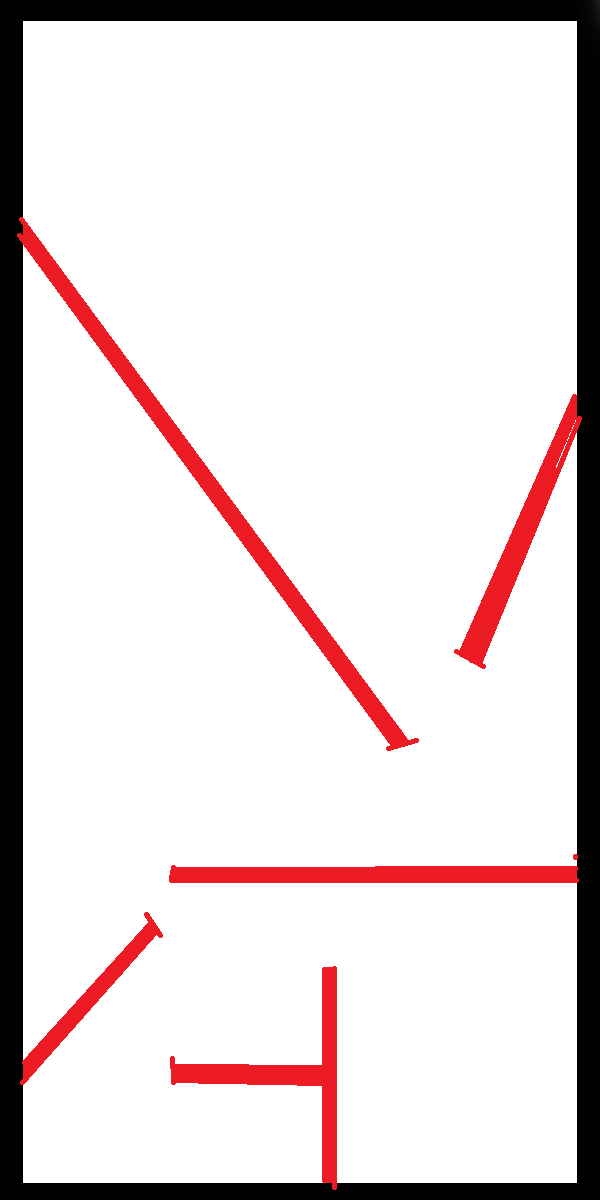
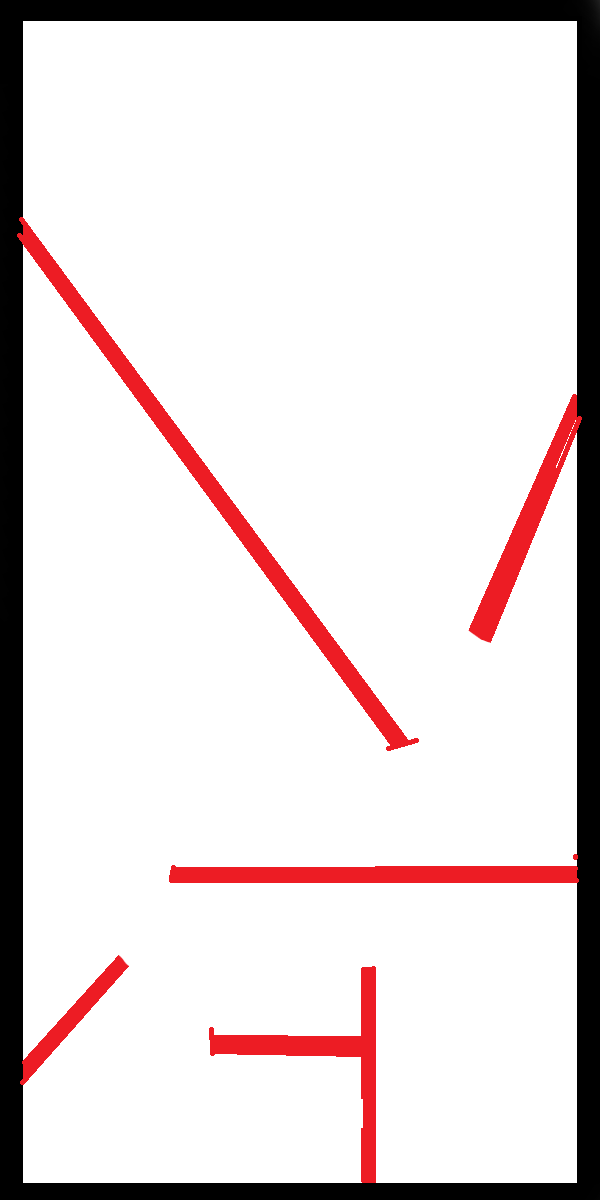
Adjust maps so that car can solve them (car is wider than some of the gaps were)

Changed region(s): [[0.27, 0.8017, 0.63, 0.9867], [0.21, 0.74, 0.27, 0.8017], [0.75, 0.5242, 0.81, 0.555]]

diff --git a/carsim.py b/carsim.py
@@ -61,8 +61,9 @@ class Car:
         self.sensors = (self.front_sensor, self.back_right, self.back_left, self.front_right, self.front_left,
                         self.left_sensor, self.right_sensor)
         self.prefer_left = True
-        self.reverse_count = 0
-        self.steer_count = 0
+        self.reverse_count = 0  # Used to time how long to reverse for
+        self.steer_count = 0  # Used to time how long to steer in the same direction for
+        self.following_line = False
 
     def to_world(self, p):
         """Takes a point relative to the centre of the car (in driving direction) and calculates the world coordinates,
@@ -86,11 +87,12 @@ class Car:
 def _move_car(map, car):
     """Execute car move based on current world state."""
     if car.reverse_count:  # More reversing to do - go straight back
-        if not all([map.is_clear(car.to_world(s)) for s in (car.back_right, car.back_left)]):  # Obstacle behind - stop reversing
+        if not all([map.is_clear(car.to_world(s)) for s in (car.back_right, car.back_left)]):
+            # Obstacle behind - stop reversing
             car.reverse_count = 0
             return
-        car.move(False, 0)
-        car.reverse_count -= 1;
+        car.move(False, -1 if car.prefer_left else 1)
+        car.reverse_count -= 1
         return
     fs = car.to_world(car.front_sensor)
     frs = car.to_world(car.front_right)
@@ -104,8 +106,14 @@ def _move_car(map, car):
             car.prefer_left = True
         elif any([map.is_wall(x) for x in [fs, frs, fls]]):  # Obstacle is wall, so switch preferred direction
             car.prefer_left = True if car.rot > 0 else False
+            if car.following_line:  # Do a full 180 degree turn
+                car.reverse_count = 100
+                car.steer_count = 100
+                car.following_line = False
+                return
         car.reverse_count = 50
         car.steer_count = 50
+        car.following_line = False
         return
     if car.steer_count:  # Steer count means there was an obstacle and we reversed, so try turning
         if car.prefer_left:
@@ -113,7 +121,7 @@ def _move_car(map, car):
         else:
             car.move(True, 1)
         car.steer_count -= 1
-    else:
+    else:  # Move toward goal line
         if not map.is_clear(rs):  # Obstacle on outer sensor but not emergency brake sensor
             car.move(True, -1)
         elif not map.is_clear(ls):
@@ -124,6 +132,7 @@ def _move_car(map, car):
             car.move(True, 1)
         else:  # No obstacle, car already straight - full speed ahead
             car.move(True, 0)
+    car.following_line = map.is_line(rs) or map.is_line(ls)
 
 
 def _plt_patch_list(map, car, ax):
